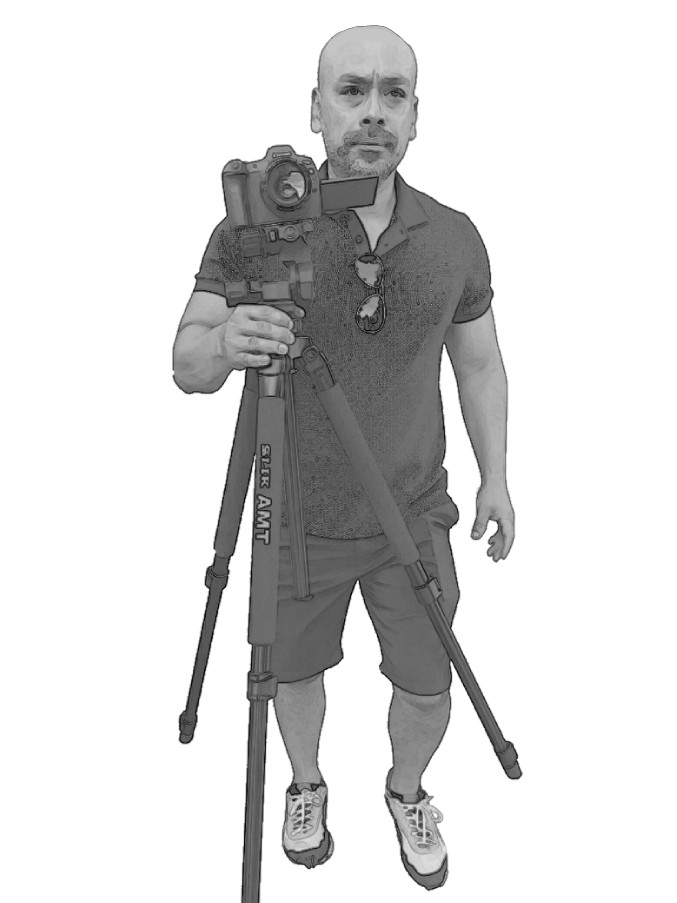
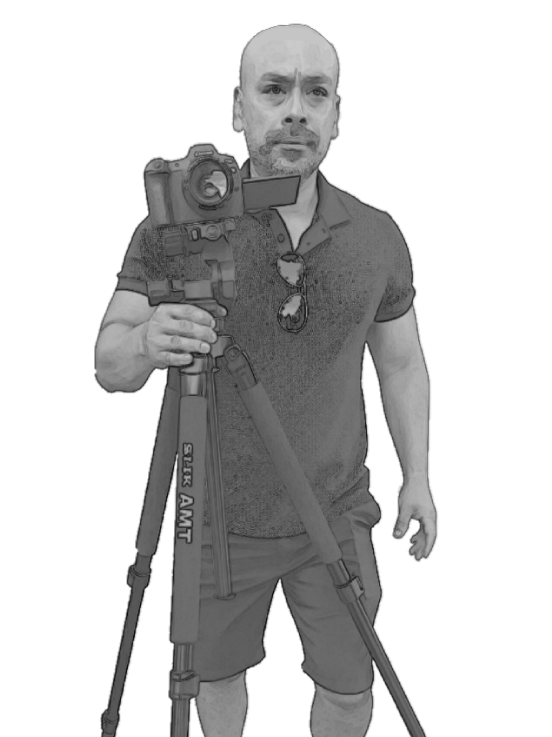
moved joe

diff --git a/public/style.css b/public/style.css
@@ -2849,7 +2849,7 @@ body.has-hero .site-header {
   object-position: center bottom;
 }
 
-.sig-photo--left  { left:  -110px; }
+.sig-photo--left  { left:  -35px; height: 67.5%; top: 4.5%; }
 .sig-photo--right { right: -70px; height: 72%; }
 
 .choose-panel-bullets li {
